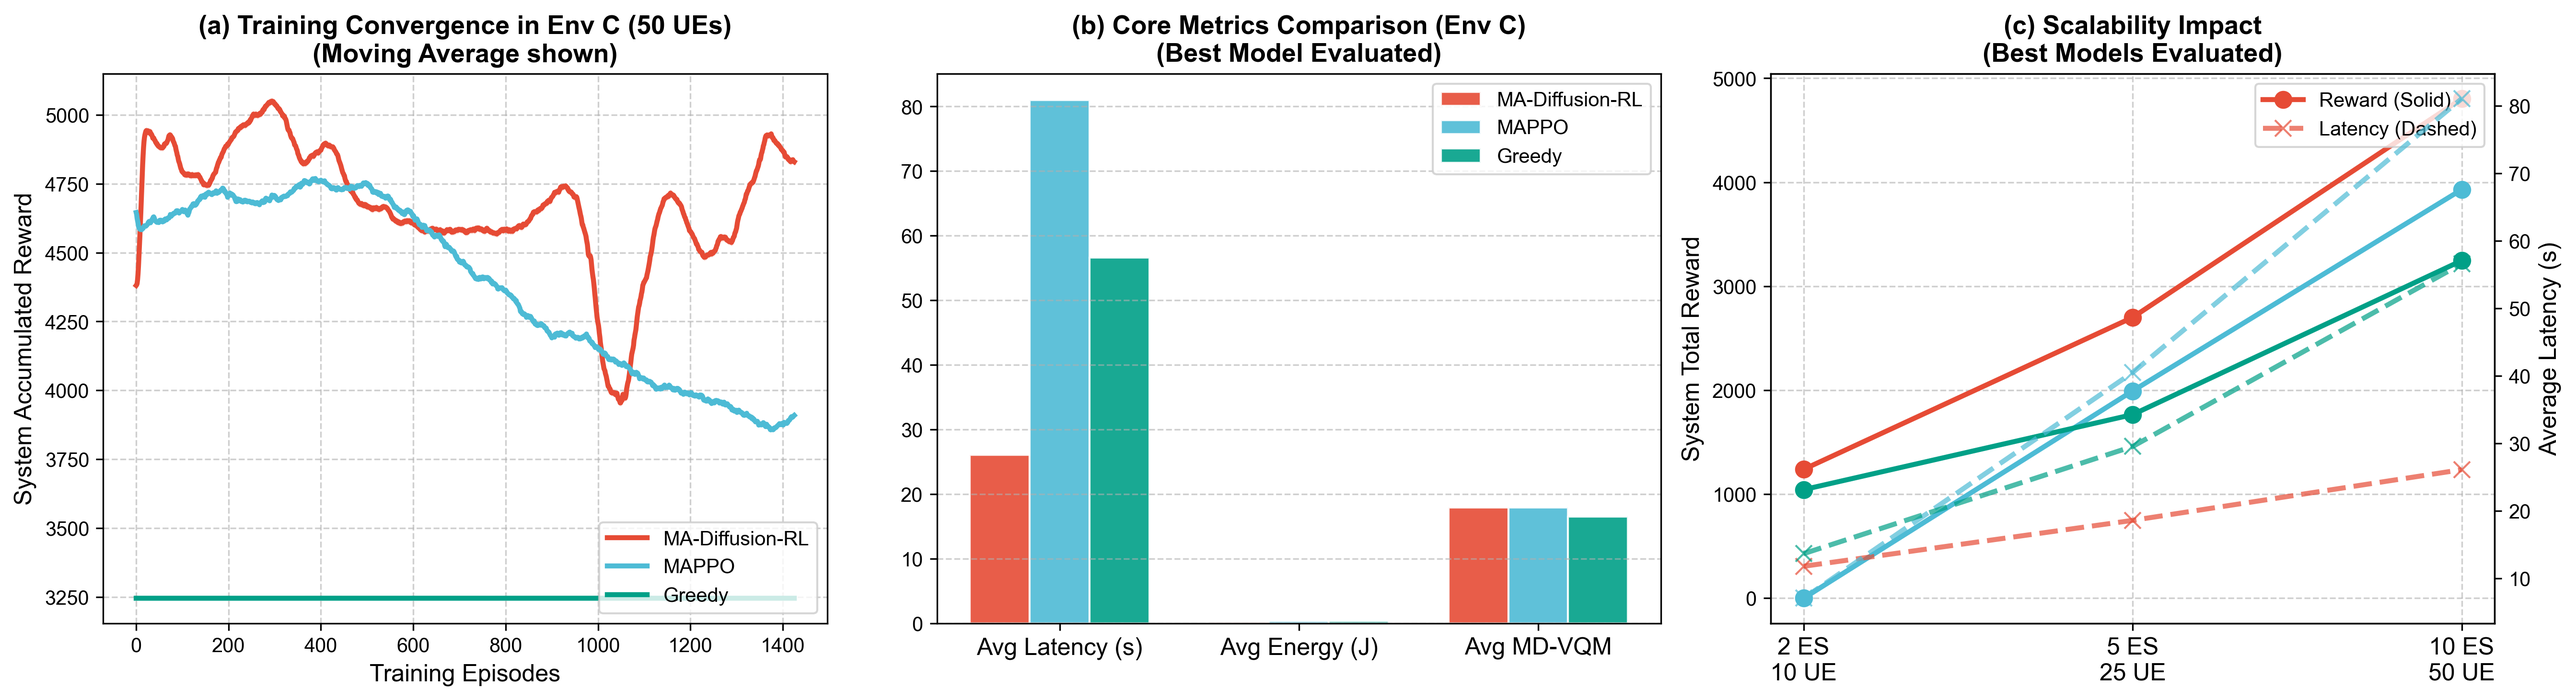
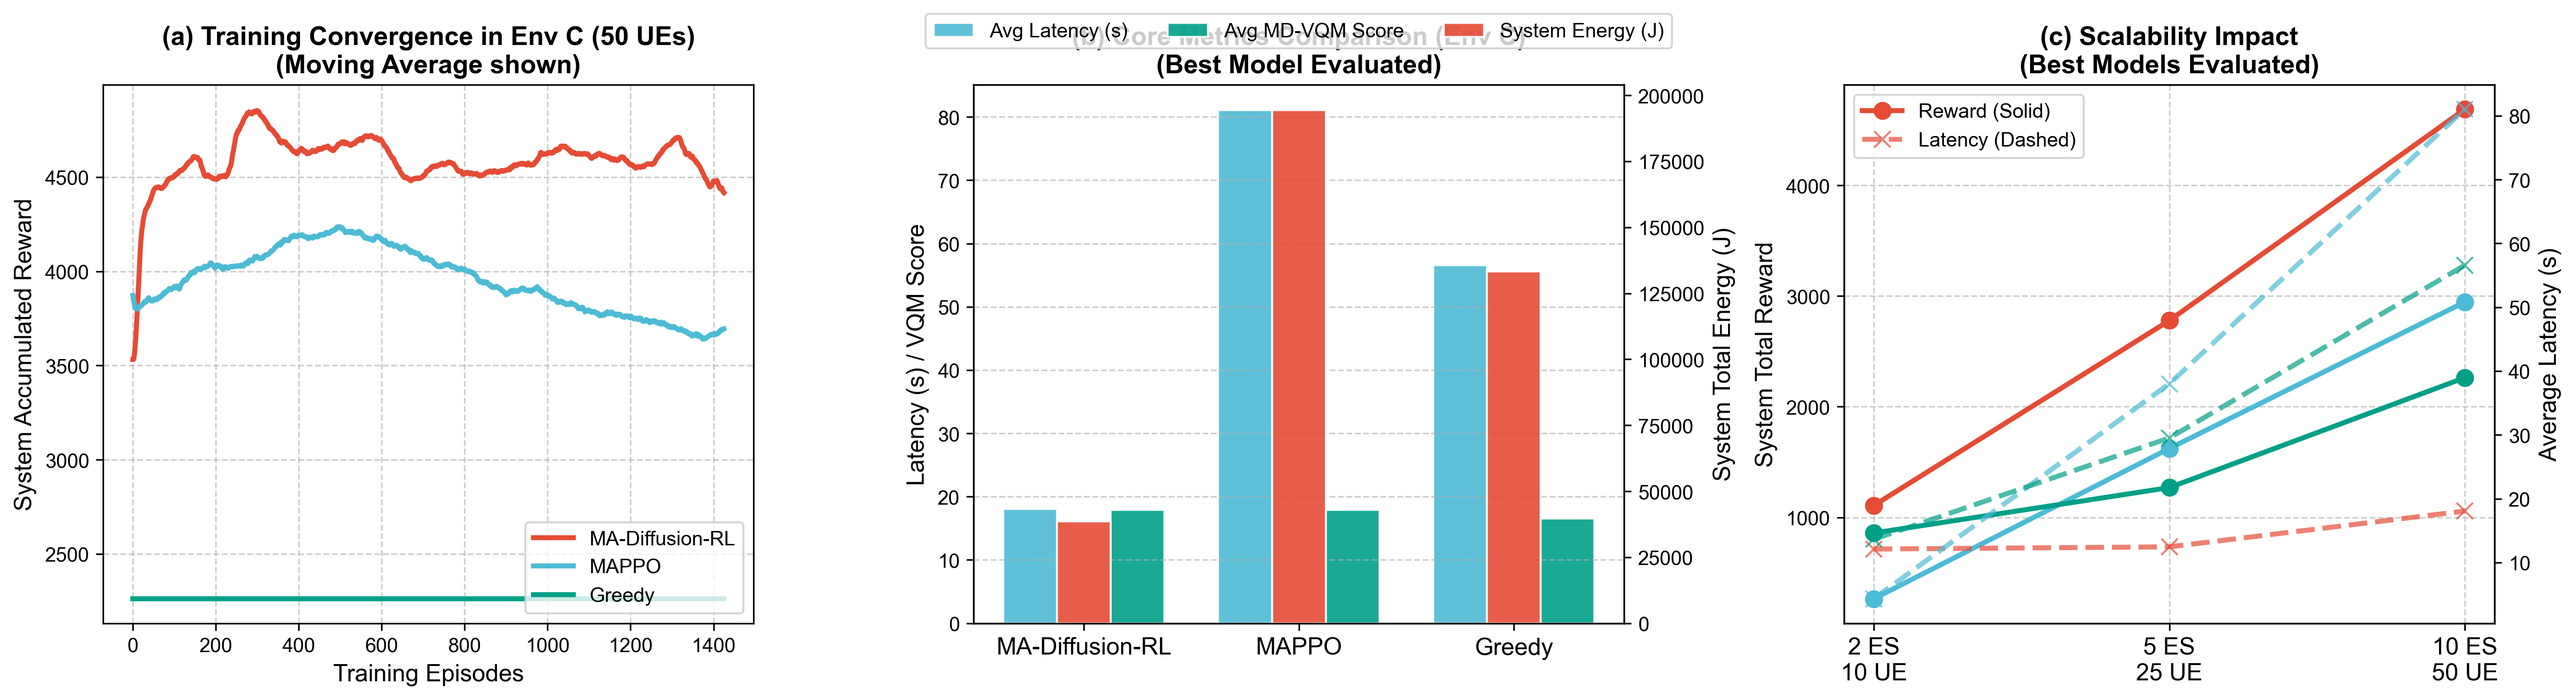
修复了能耗为0J的bug

diff --git a/envs/mec_lvm_env.py b/envs/mec_lvm_env.py
@@ -29,17 +29,17 @@ class MultiAgentMECLVMEnvMulti(gym.Env):
         self.P_tx = 0.1  # UE发送功率 (W)
         self.N_0 = 1e-9  # 噪声功率谱密度
         self.eta = 0.5  # LVM 计算复杂度系数 (G Cycles / Mbits)
+        self.P_es_active = 50.0  # 边缘服务器工作状态推理功率 (W)
 
-        # 【调优1】状态增强：除了UE私有特征，还要追加 M个ES的算力上限 和 M个ES的实时负载
+        # 状态与动作维度
         self.obs_dim = 3 + 2 * self.num_ess
-        # 【调优2】动作重构：前 M+1 维作为 ES 选择的 Logits，最后 1 维作为推理步数控制
         self.action_dim = self.num_ess + 2
 
         self.max_steps = 10
         self.current_step = 0
         self.F_ess = None
         self.states = {}
-        self.es_loads = [0] * self.num_ess  # 初始化实时负载
+        self.es_loads = [0] * self.num_ess
 
     def reset(self, seed=None):
         if seed is not None:
@@ -65,15 +65,14 @@ class MultiAgentMECLVMEnvMulti(gym.Env):
     def _get_normalized_states(self):
         """融合全局视角，输出严格归一化的观测向量"""
         norm_states = {}
-        f_norm = np.array(self.F_ess) / 250.0  # ES 算力特征归一化
-        l_norm = np.array(self.es_loads) / float(self.num_ues)  # ES 负载拥塞特征归一化
+        f_norm = np.array(self.F_ess) / 250.0
+        l_norm = np.array(self.es_loads) / float(self.num_ues)
 
         for k, v in self.states.items():
             norm_v = np.copy(v)
-            norm_v[0] /= 20.0  # S_n 归一化
-            norm_v[1] /= 15.0  # F_loc 归一化
-            norm_v[2] /= 5e-6  # h_n 归一化
-            # 拼接全局 State (维度 = 3 + 2M)
+            norm_v[0] /= 20.0
+            norm_v[1] /= 15.0
+            norm_v[2] /= 5e-6
             norm_states[k] = np.concatenate([norm_v, f_norm, l_norm]).astype(np.float32)
         return norm_states
 
@@ -89,10 +88,9 @@ class MultiAgentMECLVMEnvMulti(gym.Env):
     def step(self, action_dict):
         self.current_step += 1
 
-        # 【安全防护】防止由于神经网络输出 NaN 导致的环境连带崩溃
+        # 安全防护
         for agent_id, act in action_dict.items():
             if np.isnan(act).any():
-                # 若网络损坏导致输出 NaN，则执行全静默的退化动作 (本地计算，最低质量要求)
                 action_dict[agent_id] = np.zeros_like(act)
 
         offload_decisions = {}
@@ -104,24 +102,21 @@ class MultiAgentMECLVMEnvMulti(gym.Env):
             agent_id = f"ue_{i}"
             act = action_dict[agent_id]
 
-            # Action [0 : M+1]: 使用 Argmax 提取具有最高 Logit 的通道作为决策目标
             target = int(np.argmax(act[:self.num_ess + 1]))
             offload_decisions[agent_id] = target
             if target > 0:
                 es_load_count[target] += 1
 
-            # Action [-1]: LVM 推理步数映射 -> [-1, 1] 映射到 [10, 50] 步
             step_val = act[-1]
             steps = int(np.round((np.clip(step_val, -1.0, 1.0) + 1.0) / 2.0 * 40 + 10))
             inference_steps[agent_id] = np.clip(steps, 10, 50)
 
-        # 更新全局状态中的服务器负载，供下一步 State 观测
         self.es_loads = [es_load_count[m + 1] for m in range(self.num_ess)]
 
         rewards = {}
         infos = {}
 
-        # 2. 物理资源分配结算 (比例公平竞争)
+        # 2. 物理资源与【真实能耗】分配结算
         for i in range(self.num_ues):
             agent_id = f"ue_{i}"
             data_size, local_cpu, channel_gain = self.states[agent_id]
@@ -133,11 +128,14 @@ class MultiAgentMECLVMEnvMulti(gym.Env):
             vqm_utility = self._calculate_md_vqm(steps)
 
             delay = 0.0
-            energy = 0.0
+            energy = 0.0  # 真实物理系统能耗 (J)
 
             if target_es == 0:
+                local_cpu = max(local_cpu, 1e-9)
                 delay = req_cycles / local_cpu
-                energy = 0.5 * data_size * (local_cpu ** 2) * (steps / 100.0)
+                # 【修复】本地动态功率计算：基于CPU频率(近似平方关系/10以匹配手机芯片1-10W功耗)
+                p_local = 0.5 * (local_cpu ** 2) / 10.0
+                energy = p_local * delay
             else:
                 competitors = es_load_count[target_es]
                 alloc_bandwidth = self.B_es / competitors
@@ -150,26 +148,28 @@ class MultiAgentMECLVMEnvMulti(gym.Env):
                 alloc_cpu = self.F_ess[target_es - 1] / competitors
                 comp_delay = req_cycles / alloc_cpu
 
-                delay = trans_delay + comp_delay
-                energy = trans_energy
+                # 【修复】增加边缘服务器推理的庞大能耗 (假设50W功率)
+                comp_energy = self.P_es_active * comp_delay
 
-            # 【调优3】延迟截断与量级对齐，彻底阻止惩罚无底洞造成的网络梯度爆炸
+                delay = trans_delay + comp_delay
+                energy = trans_energy + comp_energy  # 系统总真实能耗包含传输 + ES计算
+
+            # 【修复】将惩罚和成本的量级隔离开，不污染真实能耗返回
             clip_delay = min(delay, 15.0)
-            clip_energy = min(energy, 20.0)
+            clip_energy = min(energy, 500.0)  # RL可感知的截断最大能耗，防止极值破坏网络
             penalty = -5.0 if delay >= 15.0 else 0.0
 
-            # 将代价映射至合理区间，权重匹配 MD-VQM 的 0~20 量级
-            cost = 5.0 * (clip_delay / 15.0) + 2.0 * (clip_energy / 20.0)
+            # 将 RL 的 Cost 严格对齐至 0~20 的量级
+            cost = 5.0 * (clip_delay / 15.0) + 2.0 * (clip_energy / 500.0)
             reward = vqm_utility - cost + penalty
 
             rewards[agent_id] = reward
             infos[agent_id] = {
                 'target': target_es, 'steps': steps,
-                'vqm': vqm_utility, 'delay': delay, 'energy': energy
+                'vqm': vqm_utility, 'delay': delay, 'energy': energy  # <--- 如实返回真实的百焦耳级物理能耗
             }
 
         self._generate_states()
-
         done = self.current_step >= self.max_steps
         dones = {f"ue_{i}": done for i in range(self.num_ues)}
 

diff --git a/main_experiment.py b/main_experiment.py
@@ -16,7 +16,6 @@ def train_and_evaluate(agent_name, AgentClass, env, env_name, episodes=1500):
     agent = AgentClass(env.num_ues, env.obs_dim, env.action_dim)
     metrics = {"reward": [], "latency": [], "energy": [], "vqm": []}
 
-    # Checkpoint 维护容器
     best_reward = -float('inf')
     best_actor_weights = copy.deepcopy(agent.actor.state_dict()) if agent_name != "Greedy" else None
 
@@ -24,17 +23,16 @@ def train_and_evaluate(agent_name, AgentClass, env, env_name, episodes=1500):
     # 第一阶段：1500轮次的主训练与参数退火
     # ----------------------------------------------------
     for ep in range(episodes):
-        # 参数退火逻辑 (Decay & Annealing)
         if ep < 800:
             noise_scale = 0.1
             ent_coef = 0.05
             lr_a, lr_c = 3e-4, 1e-3
         else:
             decay_ratio = (ep - 800) / 700.0
-            noise_scale = 0.1 - decay_ratio * 0.09  # 衰减至 0.01
-            ent_coef = 0.05 - decay_ratio * 0.04  # 衰减至 0.01
-            lr_a = 3e-4 - decay_ratio * 2.9e-4  # 衰减至 1e-5
-            lr_c = 1e-3 - decay_ratio * 9e-4  # 衰减至 1e-4
+            noise_scale = 0.1 - decay_ratio * 0.09
+            ent_coef = 0.05 - decay_ratio * 0.04
+            lr_a = 3e-4 - decay_ratio * 2.9e-4
+            lr_c = 1e-3 - decay_ratio * 9e-4
 
         if hasattr(agent, 'update_lr'):
             agent.update_lr(lr_a, lr_c)
@@ -58,8 +56,9 @@ def train_and_evaluate(agent_name, AgentClass, env, env_name, episodes=1500):
             next_obs_dict, rewards_dict, dones_dict, _, infos = env.step(action_dict)
 
             ep_reward += sum(rewards_dict.values())
+            # 【修复】延迟和质量使用取均值，但系统的系统总能耗必须用 sum() 提取全场总能耗 (J)
             ep_latency += np.mean([infos[ue]['delay'] for ue in infos])
-            ep_energy += np.mean([infos[ue]['energy'] for ue in infos])
+            ep_energy += np.sum([infos[ue]['energy'] for ue in infos])
             ep_vqm += np.mean([infos[ue]['vqm'] for ue in infos])
             steps += 1
 
@@ -77,7 +76,7 @@ def train_and_evaluate(agent_name, AgentClass, env, env_name, episodes=1500):
 
         metrics["reward"].append(ep_reward)
         metrics["latency"].append(ep_latency / steps)
-        metrics["energy"].append(ep_energy / steps)
+        metrics["energy"].append(ep_energy / steps)  # 每时隙系统总能耗
         metrics["vqm"].append(ep_vqm / steps)
 
         # 动态滑动窗口保存 Best Model
@@ -89,8 +88,9 @@ def train_and_evaluate(agent_name, AgentClass, env, env_name, episodes=1500):
                     best_actor_weights = copy.deepcopy(agent.actor.state_dict())
 
         if (ep + 1) % 100 == 0:
+            avg_eng_print = np.mean(metrics['energy'][-50:])
             print(
-                f"  └─ Ep {ep + 1}/{episodes} | Sys Rwd: {np.mean(metrics['reward'][-50:]):.2f} | Latency: {np.mean(metrics['latency'][-50:]):.3f}s")
+                f"  └─ Ep {ep + 1}/{episodes} | Sys Rwd: {np.mean(metrics['reward'][-50:]):.2f} | Latency: {np.mean(metrics['latency'][-50:]):.3f}s | Energy: {avg_eng_print:.1f}J")
 
     # ----------------------------------------------------
     # 第二阶段：最终测试 (纯 Exploitation 验证最优权重)
@@ -113,7 +113,7 @@ def train_and_evaluate(agent_name, AgentClass, env, env_name, episodes=1500):
             next_obs_dict, rewards_dict, dones_dict, _, infos = env.step(action_dict)
             ep_reward += sum(rewards_dict.values())
             ep_latency += np.mean([infos[ue]['delay'] for ue in infos])
-            ep_energy += np.mean([infos[ue]['energy'] for ue in infos])
+            ep_energy += np.sum([infos[ue]['energy'] for ue in infos])  # 【修复】测试阶段也要使用 sum 获取全场总能耗
             ep_vqm += np.mean([infos[ue]['vqm'] for ue in infos])
             steps += 1
 
@@ -127,7 +127,8 @@ def train_and_evaluate(agent_name, AgentClass, env, env_name, episodes=1500):
         eval_metrics["vqm"].append(ep_vqm / steps)
 
     final_eval_avg = {k: np.mean(v) for k, v in eval_metrics.items()}
-    print(f"  ✅ 最终稳定表现 -> Reward: {final_eval_avg['reward']:.2f} | Latency: {final_eval_avg['latency']:.2f}s")
+    print(
+        f"  ✅ 最终稳定表现 -> Reward: {final_eval_avg['reward']:.2f} | Latency: {final_eval_avg['latency']:.2f}s | Energy: {final_eval_avg['energy']:.1f}J")
 
     return metrics, final_eval_avg
 
@@ -160,5 +161,5 @@ if __name__ == "__main__":
             full_results[env_name][algo_name] = metrics
             eval_results[env_name][algo_name] = eval_avg
 
-    print("\n✅ 所有环境下的独立训练与测试已完成！正在绘制学术排版级长图...")
+    print("\n✅ 所有环境下的独立训练与测试已完成！正在绘制学术排版级双Y轴长图...")
     plot_experiment_results(full_results, eval_results)

diff --git a/utils/plot_results.py b/utils/plot_results.py
@@ -35,26 +35,34 @@ def plot_experiment_results(full_results, eval_results, save_path="figures/marl_
     ax1.grid(True, linestyle='--', alpha=0.6)
 
     # =========================================================
-    # Subplot (b): Performance Metrics Bar Charts (基于 Checkpoint 评测数据)
+    # Subplot (b): Performance Metrics Bar Charts (双 Y 轴重构)
     # =========================================================
     ax2 = fig.add_subplot(1, 3, 2)
-    labels = ['Avg Latency (s)', 'Avg Energy (J)', 'Avg MD-VQM']
-    x = np.arange(len(labels))
+    ax2_twin = ax2.twinx()  # 【修复】分配独立 Y 轴给庞大的焦耳级别能耗数据
+
+    x = np.arange(len(algos))
     width = 0.25
 
-    for i, algo in enumerate(algos):
-        lat = eval_results["C"][algo]['latency']
-        eng = eval_results["C"][algo]['energy']
-        vqm = eval_results["C"][algo]['vqm']
-        values = [lat, eng, vqm]
+    lat_vals = [eval_results["C"][algo]['latency'] for algo in algos]
+    eng_vals = [eval_results["C"][algo]['energy'] for algo in algos]
+    vqm_vals = [eval_results["C"][algo]['vqm'] for algo in algos]
 
-        ax2.bar(x + (i - 1) * width, values, width, label=algo,
-                color=colors.get(algo, 'k'), alpha=0.9, edgecolor='white')
+    # 将 Latency 和 VQM 画在左轴，System Energy 画在右轴
+    ax2.bar(x - width, lat_vals, width, label='Avg Latency (s)', color='#4DBBD5', alpha=0.9, edgecolor='white')
+    ax2_twin.bar(x, eng_vals, width, label='System Energy (J)', color='#E64B35', alpha=0.9, edgecolor='white')
+    ax2.bar(x + width, vqm_vals, width, label='Avg MD-VQM Score', color='#00A087', alpha=0.9, edgecolor='white')
 
     ax2.set_title("(b) Core Metrics Comparison (Env C)\n(Best Model Evaluated)", fontsize=13, fontweight='bold')
     ax2.set_xticks(x)
-    ax2.set_xticklabels(labels, fontsize=12)
-    ax2.legend(loc='upper right', frameon=True)
+    ax2.set_xticklabels(algos, fontsize=12)
+    ax2.set_ylabel("Latency (s) / VQM Score", fontsize=12)
+    ax2_twin.set_ylabel("System Total Energy (J)", fontsize=12)
+
+    # 合并图例，悬浮放在不遮挡的上方位置
+    lines, labels = ax2.get_legend_handles_labels()
+    lines2, labels2 = ax2_twin.get_legend_handles_labels()
+    ax2.legend(lines + lines2, labels + labels2, loc='upper center', bbox_to_anchor=(0.5, 1.15), ncol=3, frameon=True,
+               fontsize=10)
     ax2.grid(True, axis='y', linestyle='--', alpha=0.6)
 
     # =========================================================
@@ -67,7 +75,6 @@ def plot_experiment_results(full_results, eval_results, save_path="figures/marl_
     x_scale = np.arange(len(env_sizes))
 
     for algo in algos:
-        # 提取各个算法在三个环境下的最终测试 Reward 与 Latency
         rwd_vals = [eval_results[env][algo]['reward'] for env in ["A", "B", "C"]]
         lat_vals = [eval_results[env][algo]['latency'] for env in ["A", "B", "C"]]
 
@@ -90,7 +97,7 @@ def plot_experiment_results(full_results, eval_results, save_path="figures/marl_
 
     lines, labels = ax3.get_legend_handles_labels()
     lines2, labels2 = ax3_twin.get_legend_handles_labels()
-    ax3.legend(lines + lines2, labels + labels2, loc='upper right', frameon=True, fontsize=10)
+    ax3.legend(lines + lines2, labels + labels2, loc='upper left', frameon=True, fontsize=10)
 
     ax3.grid(True, linestyle='--', alpha=0.6)
 
